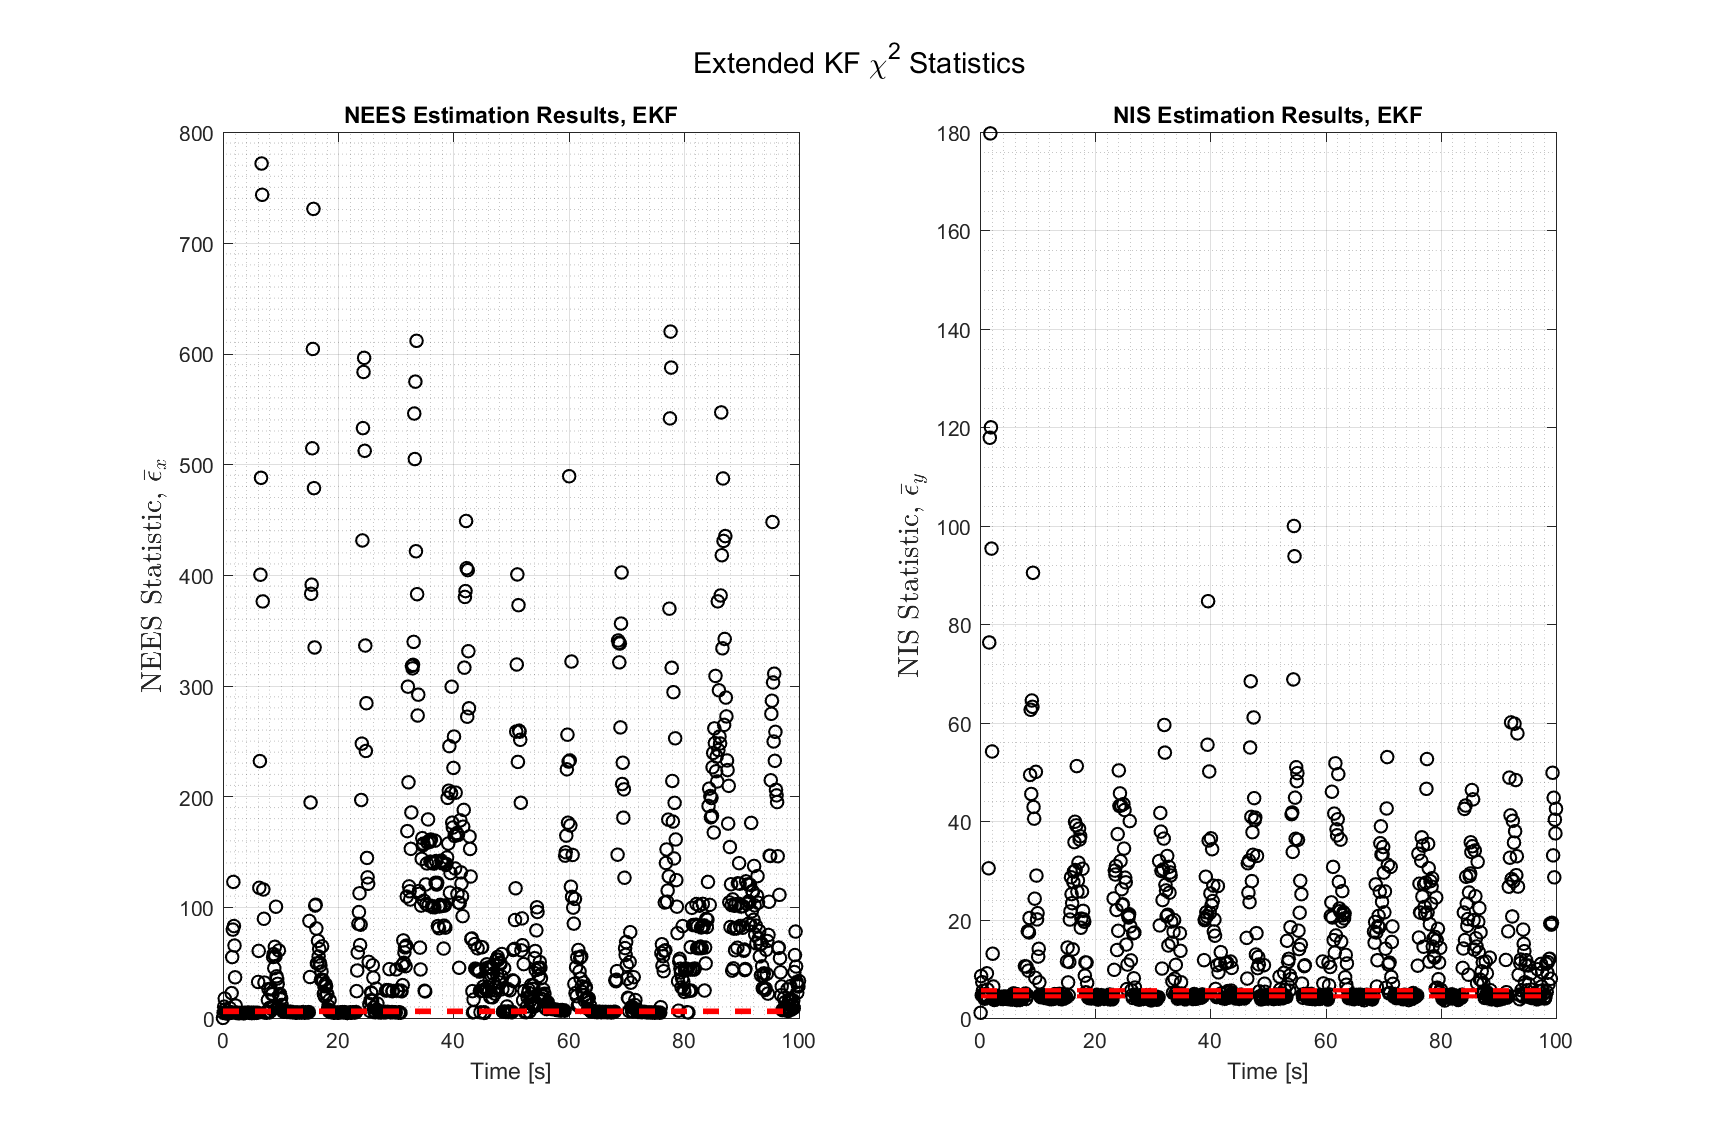
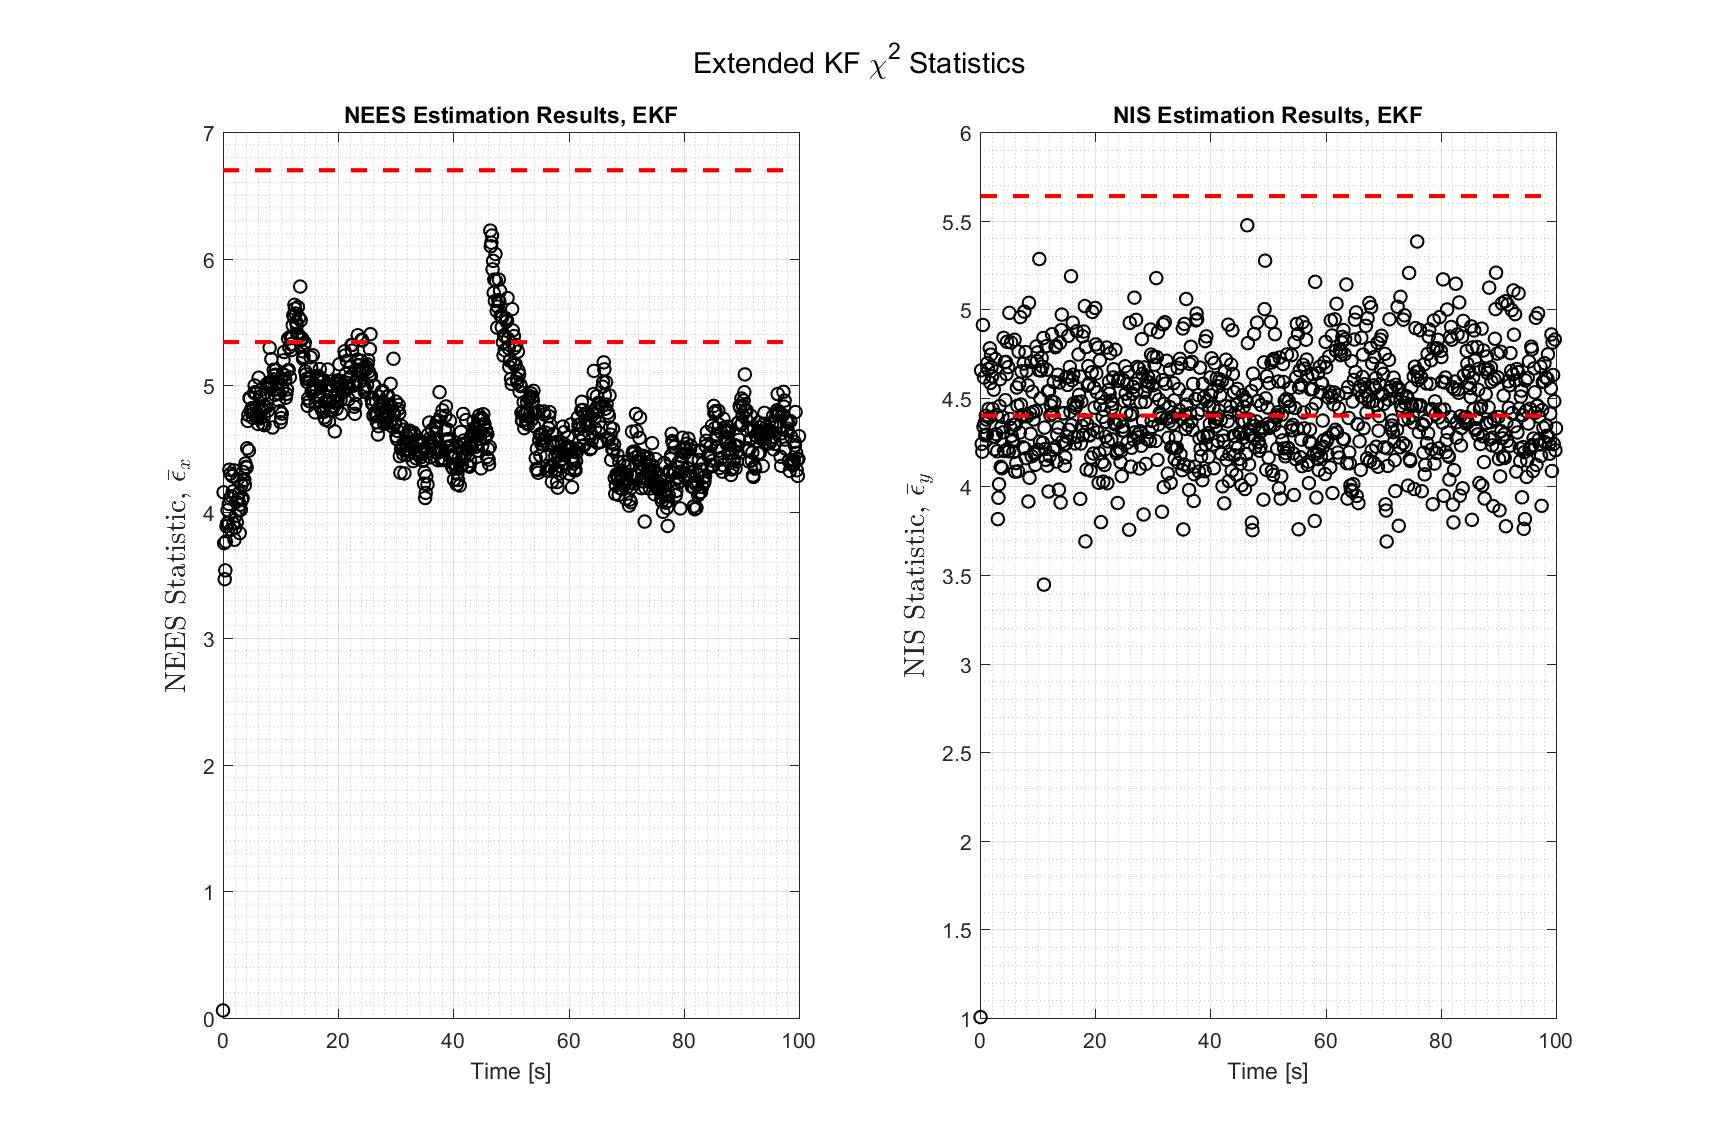
Angdiff Implemented

diff --git a/progress1.m b/progress1.m
@@ -207,6 +207,7 @@ for i=1:num
     
     % Compute NEES
     epsx = xMC(:,:,i)-xLKF;
+    epsx([3 6],:) = angdiff(xLKF([3 6],:),xMC([3 6],:,i));
     for j = 1:len
         NEES_LKF(i,j) = epsx(:,j)'/(P(:,:,j)*epsx(:,j));
     end
@@ -221,13 +222,15 @@ if plotbool(2)
     
     %Plot the delta_states
     dev = xMC(:,:,num)-xnom;
-    dev([3 6],:) = wrapToPi(dev([3 6],:));
+    %dev([3 6],:) = wrapToPi(dev([3 6],:));
+    dev([3 6],:) = angdiff(xnom([3 6],:),xMC([3 6],:,num));
     plotEstimate(dxLKF,P,time,dev,[ugvstates uavstates],'Comparing Delta States for a Trial, LKF',1);
     print('LKF_delta_est_tuning','-dpng')
     
     %Plot the errors
     err = xMC(:,:,num)-xLKF;
-    err([3 6],:) = wrapToPi(err([3 6],:));
+    %err([3 6],:) = wrapToPi(err([3 6],:));
+    err([3 6],:) = angdiff(xLKF([3 6],:),xMC([3 6],:,num));
     plotEstimate(err,P,time,zeros(n,len),[ugvstates uavstates],'State Estimation Errors, LKF',0);
     print('LKF_error_tuning','-dpng')
     
@@ -264,8 +267,8 @@ end
 
 %% Extended Kalman Filter
 REKF = Rtrue;
-QEKF = 200*Qtrue;
-%QEKF(4:6,:) = 5000*Qtrue(4:6,:);
+QEKF = 10*Qtrue;
+%QEKF(4:6,:) = 100*Qtrue(4:6,:);
 P0_EKF = 100*P0;
 
 if runbool(1) && runbool(3)
@@ -279,6 +282,7 @@ for i=1:num
     
     % Compute NEES
     epsx = xMC(:,:,i)-xEKF;
+    epsx([3 6],:) = angdiff(xEKF([3 6],:),xMC([3 6],:,i));
     for j = 1:len
         NEES_EKF(i,j) = epsx(:,j)'/P(:,:,j)*epsx(:,j);
     end
@@ -293,7 +297,7 @@ if plotbool(3)
         
     %Plot the errors
     err = xMC(:,:,num)-xEKF;
-    err([3 6],:) = wrapToPi(err([3 6],:));
+    err([3 6],:) = angdiff(xEKF([3 6],:),xMC([3 6],:,num));
     plotEstimate(err,P,time,zeros(n,len),[ugvstates uavstates],'State Estimation Errors, EKF',0);
     print('EKF_error_tuning','-dpng')
     

diff --git a/EKF.m b/EKF.m
@@ -43,6 +43,7 @@ for i = 2:len;
     yhat = h(xminus); %Full nonlinear dynamics
     K = Pminus*H'/Sk; % MATLAB will take inverse
     eyk = y(:,i-1) - yhat;
+    eyk([1 3]) = angdiff(yhat([1 3]),y([1 3],i-1)); %No longer general
     innovation(:,i-1) = eyk; 
     NIS(i-1) = eyk'/Sk*eyk; %Normalized Innovation Squared (NIS)
     x(:,i) = xminus + K*(eyk);

diff --git a/LKF.m b/LKF.m
@@ -35,6 +35,7 @@ for i = 2:len;
     yhat = H*dxminus;
     K = Pminus*H'/Sk; % MATLAB will take inverse
     eyk = dy(:,i-1) - yhat;
+    eyk([1 3]) = angdiff(yhat([1 3]),dy([1 3],i-1)); %no longer general
     innovation(:,i-1) = eyk;
     epsky(i-1) = eyk'/Sk*eyk; %Normalized Innovation Squared (NIS)
     dx(:,i) = dxminus + K*(eyk);
